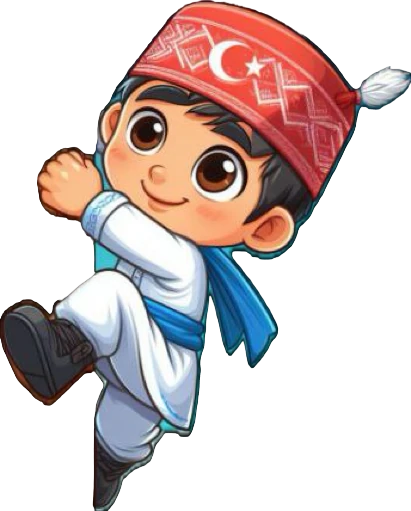
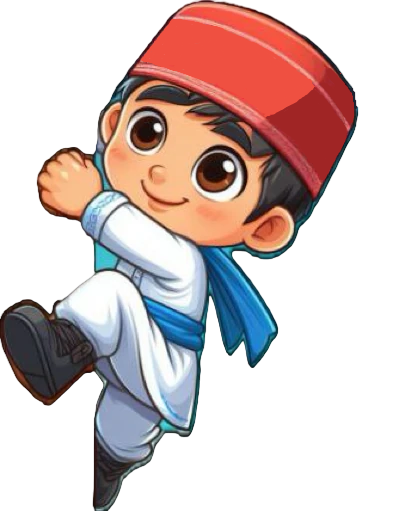
commit

Changed region(s): [[0.3504, 0.0294, 1.0, 0.3523], [0.7883, 0.1174, 0.8175, 0.1468]]

diff --git a/core/src/com/mygdx/game/PulScreen.java b/core/src/com/mygdx/game/PulScreen.java
@@ -11,7 +11,6 @@ public class PulScreen implements Screen {
     private int HEIGHT = Gdx.graphics.getHeight();
     private int WIDTH = Gdx.graphics.getWidth();
 
-    float timer = 0;
     float startTimer = 3;
     float timeToEnd = 0.5f;
 
@@ -71,11 +70,9 @@ public class PulScreen implements Screen {
             main.batch.draw(loseWindow, WIDTH / 2f - WIDTH / 12f, 2 * HEIGHT / 3f - HEIGHT / 12f, WIDTH / 6f, HEIGHT / 6f);
         }
         if (startTimer == -1 && !stop) {
-            timer += delta;
-            if (timer >= 0.3f) {
-                timer = 0;
-                rope.x += WIDTH / 200f;
-            }
+
+                rope.x += WIDTH / 75f*delta;
+
             if (Gdx.input.justTouched()) rope.x -= WIDTH / 200f;
         }
         main.batch.end();

diff --git a/core/src/com/mygdx/game/MenuScreen.java b/core/src/com/mygdx/game/MenuScreen.java
@@ -23,7 +23,7 @@ public class MenuScreen implements Screen {
     }
 
     Texture field = new Texture("field.JPG");
-    Texture rope = new Texture("places/ropePlace.png");
+    Texture rope = new Texture("rope.png");
     Texture fight = new Texture("field.JPG");
     Texture broke = new Texture("field.JPG");
     Texture climber = new Texture("field.JPG");
